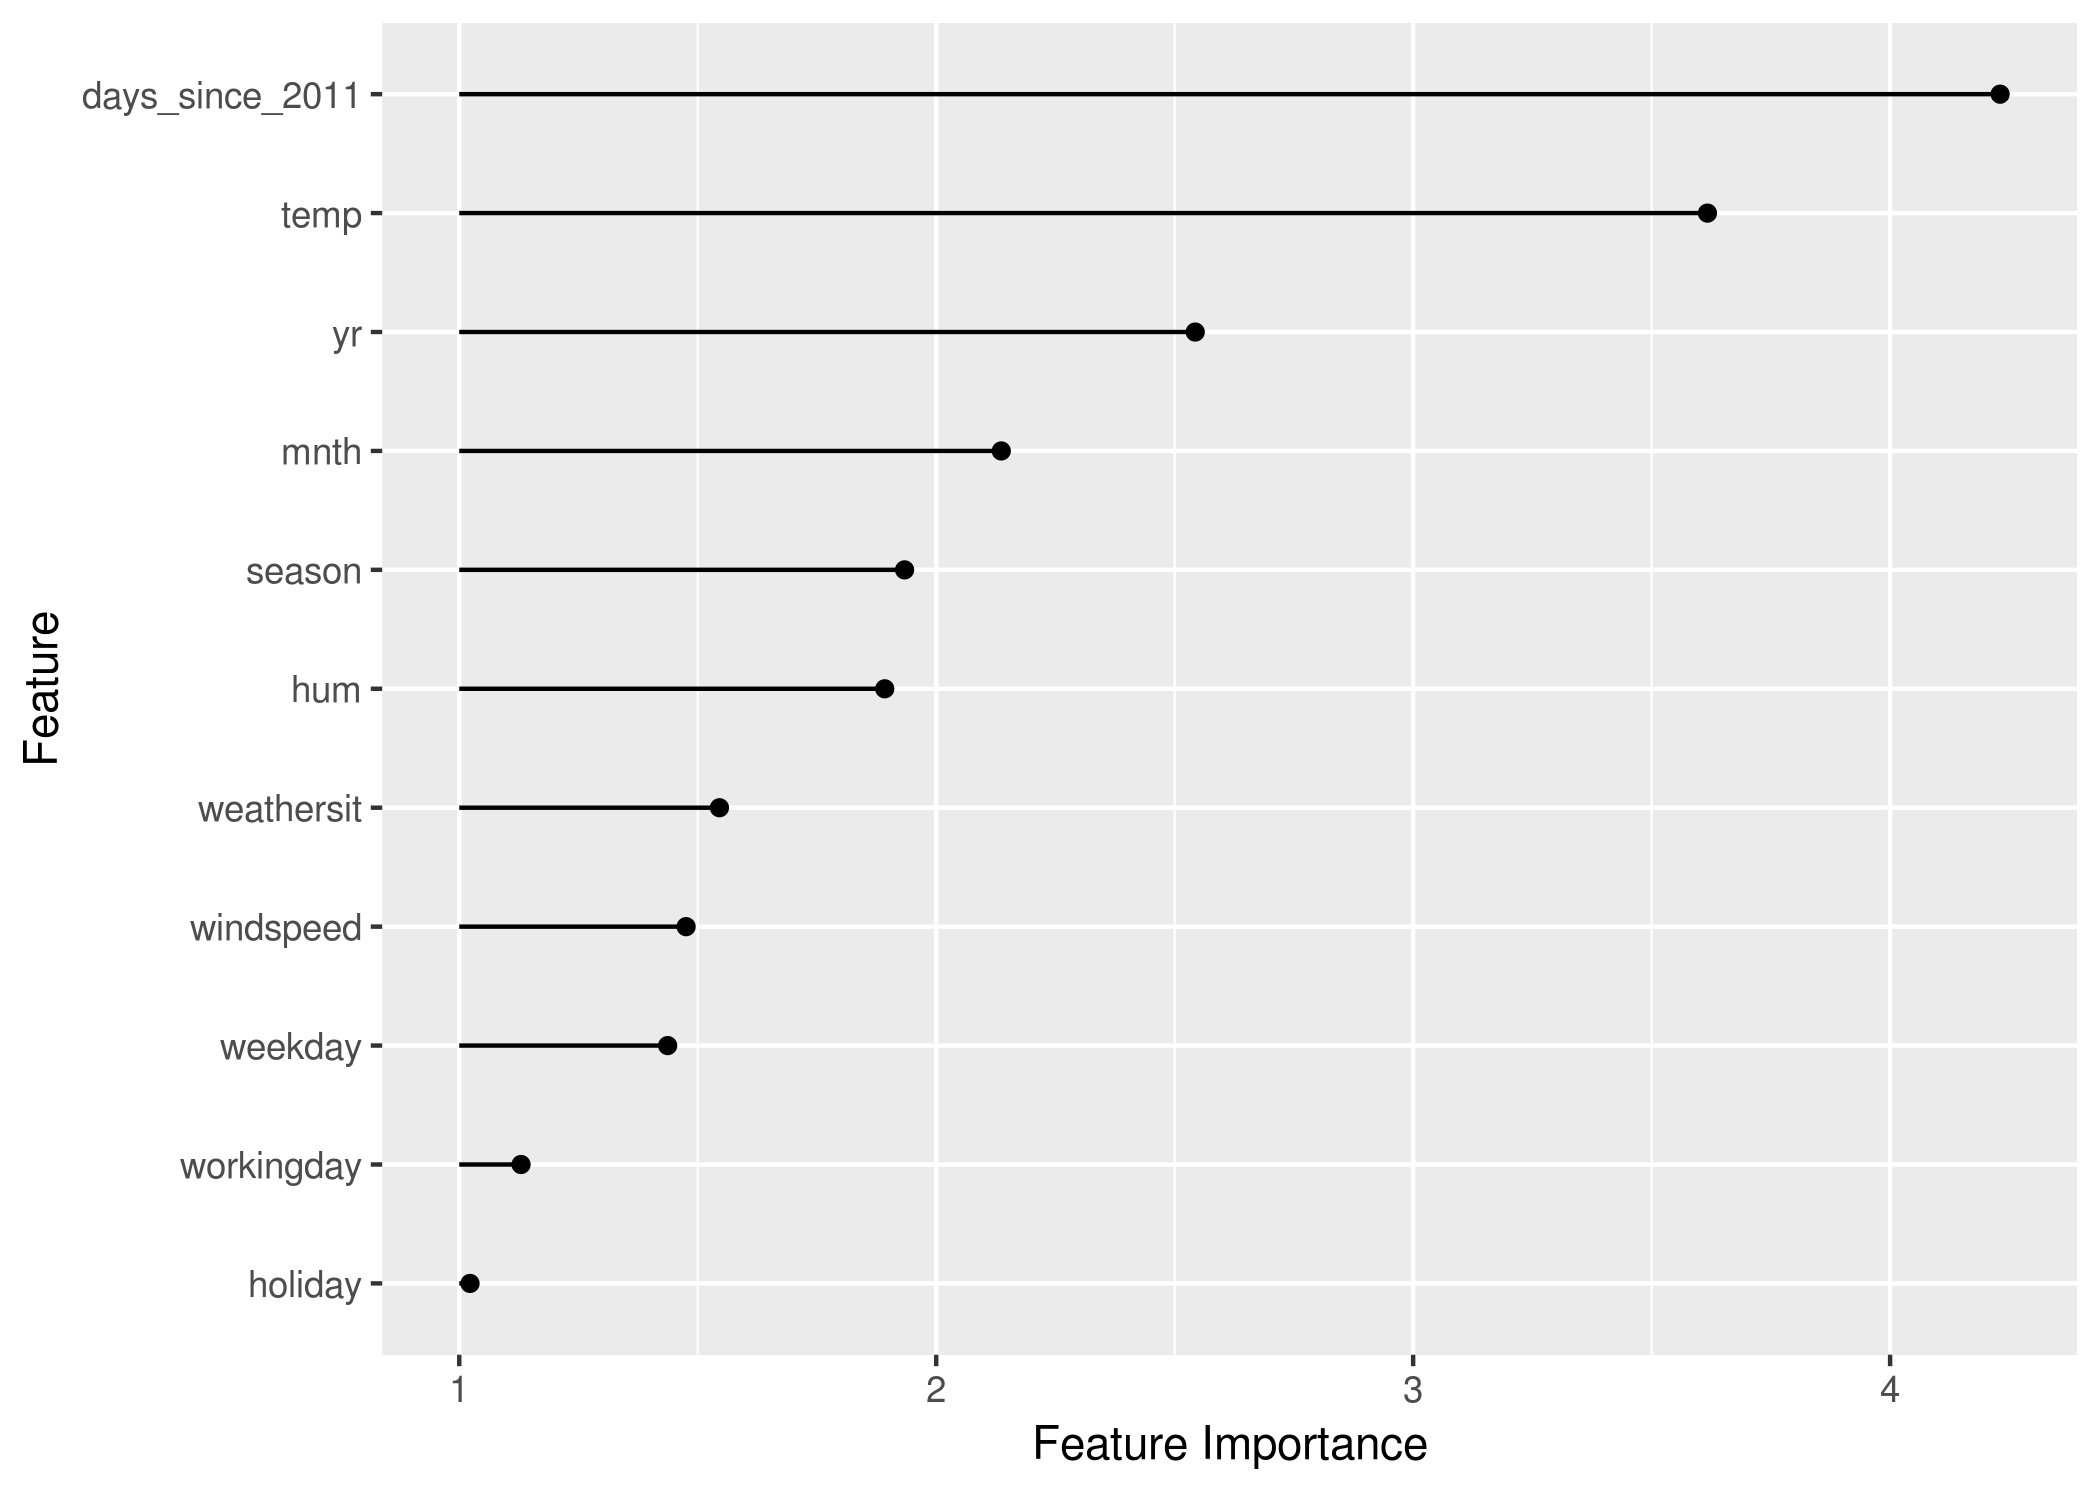
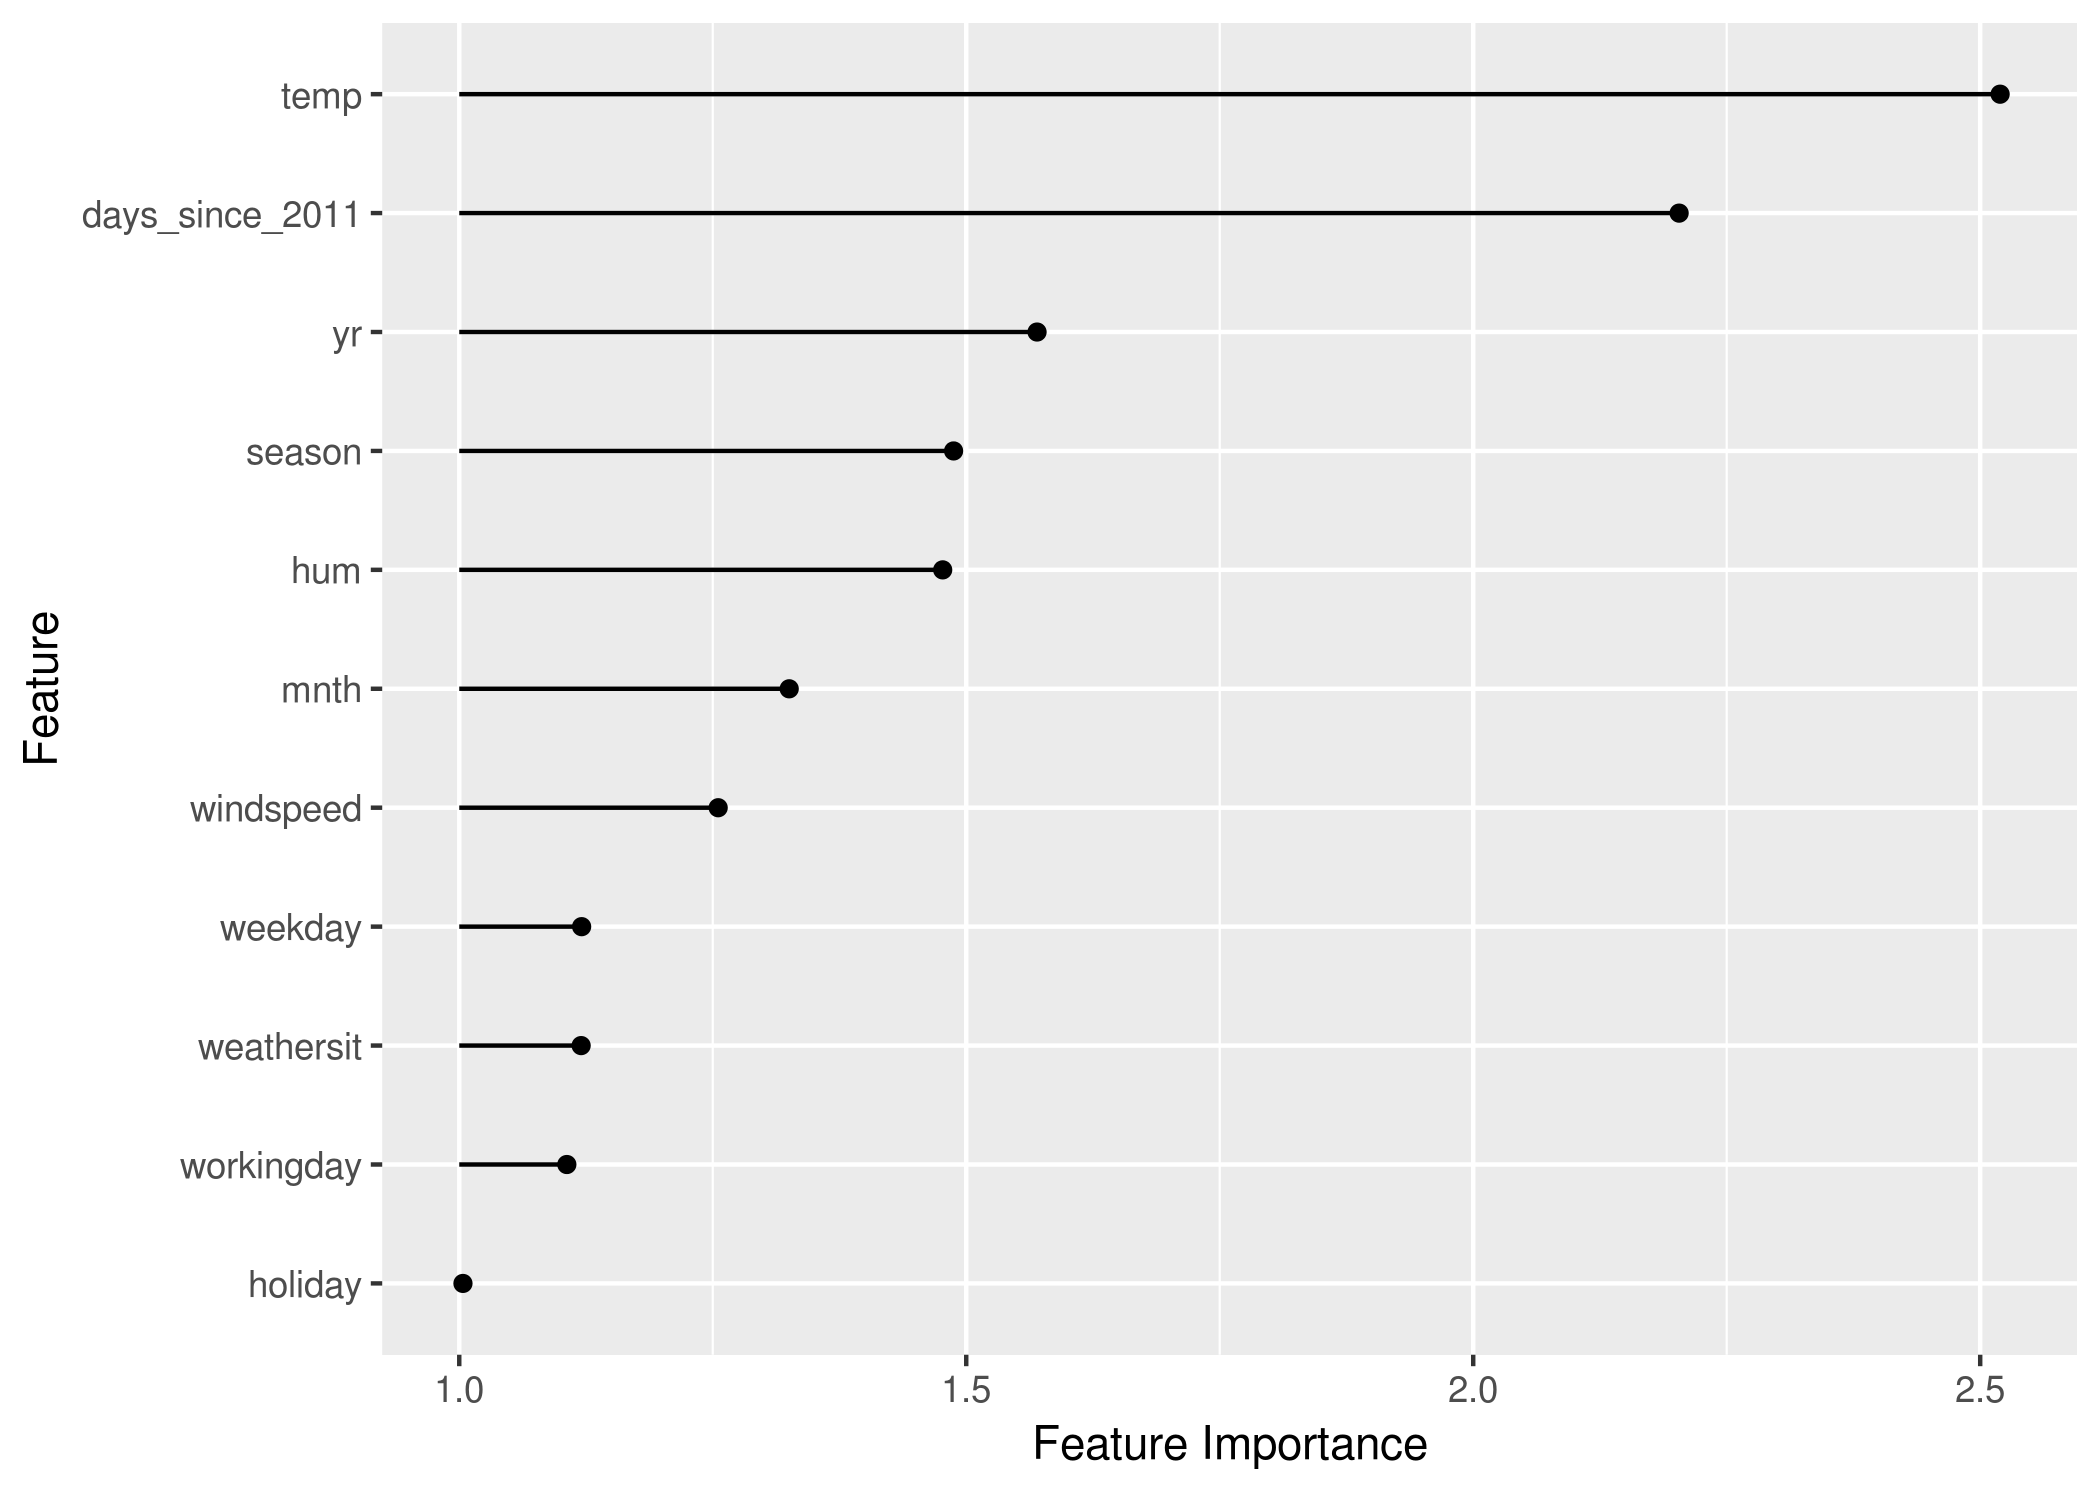
Update book (travis build 547)

diff --git a/feature-importance.html b/feature-importance.html
@@ -237,20 +237,20 @@
 <h3><span class="header-section-number">5.4.2</span> Example and Interpretation</h3>
 <p>We show examples for classification and regression.</p>
 <p><strong>Cervical cancer (Classification)</strong></p>
-<p>We fit a support vector machine model to predict <a href="cervical.html#cervical">cervical cancer</a>. We measure the error increase by: <span class="math inline">\(1-AUC\)</span> (one minus the area under the ROC curve). Features that are associated model error increase by a factor of 1 (= no change) were not important for predicting cervical cancer.</p>
+<p>We fit a random forest model to predict <a href="cervical.html#cervical">cervical cancer</a>. We measure the error increase by: <span class="math inline">\(1-AUC\)</span> (one minus the area under the ROC curve). Features that are associated model error increase by a factor of 1 (= no change) were not important for predicting cervical cancer.</p>
 <div class="figure"><span id="fig:importance-cervical"></span>
-<img src="images/importance-cervical-1.png" alt="The importance for each of the features in predicting cervical cancer with a support vector machine model. The importance is the factor by which the error is increased compared to the original model error." width="1050" />
+<img src="images/importance-cervical-1.png" alt="The importance for each of the features in predicting cervical cancer with a random forest. The importance is the factor by which the error is increased compared to the original model error." width="1050" />
 <p class="caption">
-FIGURE 5.12: The importance for each of the features in predicting cervical cancer with a support vector machine model. The importance is the factor by which the error is increased compared to the original model error.
+FIGURE 5.12: The importance for each of the features in predicting cervical cancer with a random forest. The importance is the factor by which the error is increased compared to the original model error.
 </p>
 </div>
-<p>The feature with the highest importance was associated with an error increase of 0.97 after permutation.</p>
+<p>The feature with the highest importance was associated with an error increase of 7.01 after permutation.</p>
 <p><strong>Bike rentals (Regression)</strong></p>
-<p>We fit a random forest model to predict <a href="bike-data.html#bike-data">bike rentals</a>, given weather conditions and calendric information. As error measurement we use the mean absolute error.</p>
+<p>We fit a support vector machine model to predict <a href="bike-data.html#bike-data">bike rentals</a>, given weather conditions and calendric information. As error measurement we use the mean absolute error.</p>
 <div class="figure"><span id="fig:importance-bike"></span>
-<img src="images/importance-bike-1.png" alt="The importance for each of the features in predicting bike rentals with a random forest." width="1050" />
+<img src="images/importance-bike-1.png" alt="The importance for each of the features in predicting bike rentals with a support vector machine." width="1050" />
 <p class="caption">
-FIGURE 5.13: The importance for each of the features in predicting bike rentals with a random forest.
+FIGURE 5.13: The importance for each of the features in predicting bike rentals with a support vector machine.
 </p>
 </div>
 <p>A positive aspect of using the error ratio instead of the error difference is that the feature importance measurements are comparable across different problems. You can see that the importance of the most important features in the bike rental prediction task is 2 to 3 times higher than in the cervical cancer prediction task. This indicates that the features were much more informative in the bike rental prediction task and that the bike model does a better job at predicting bike rentals compared to the cancer model at predicting cancer.</p>
